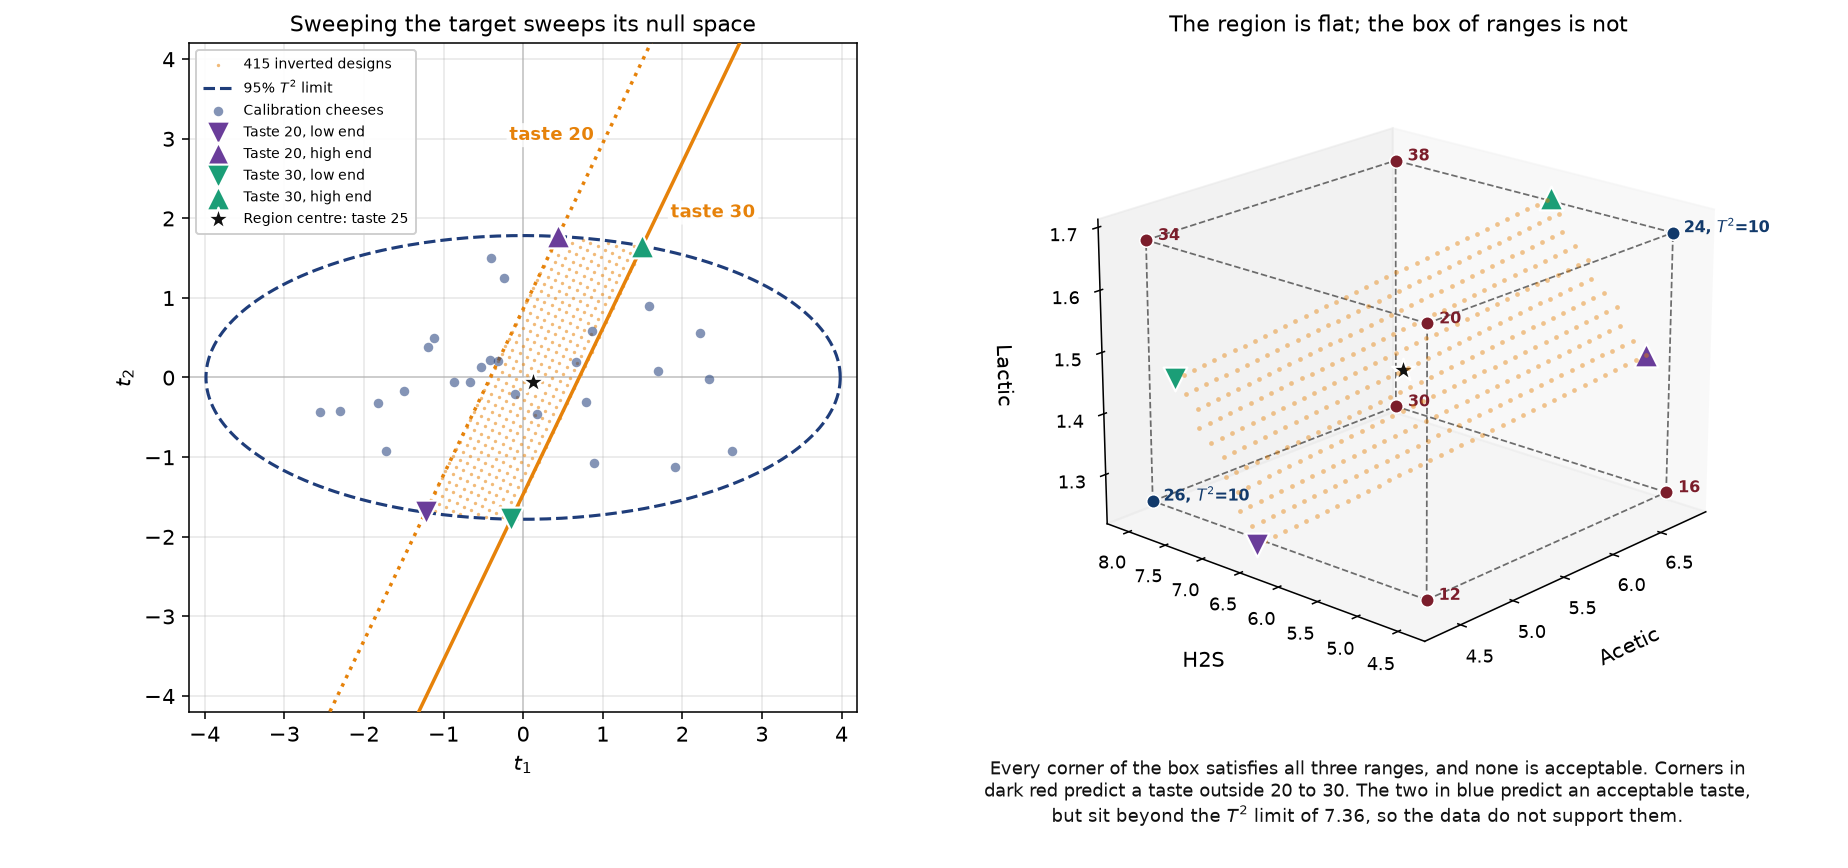
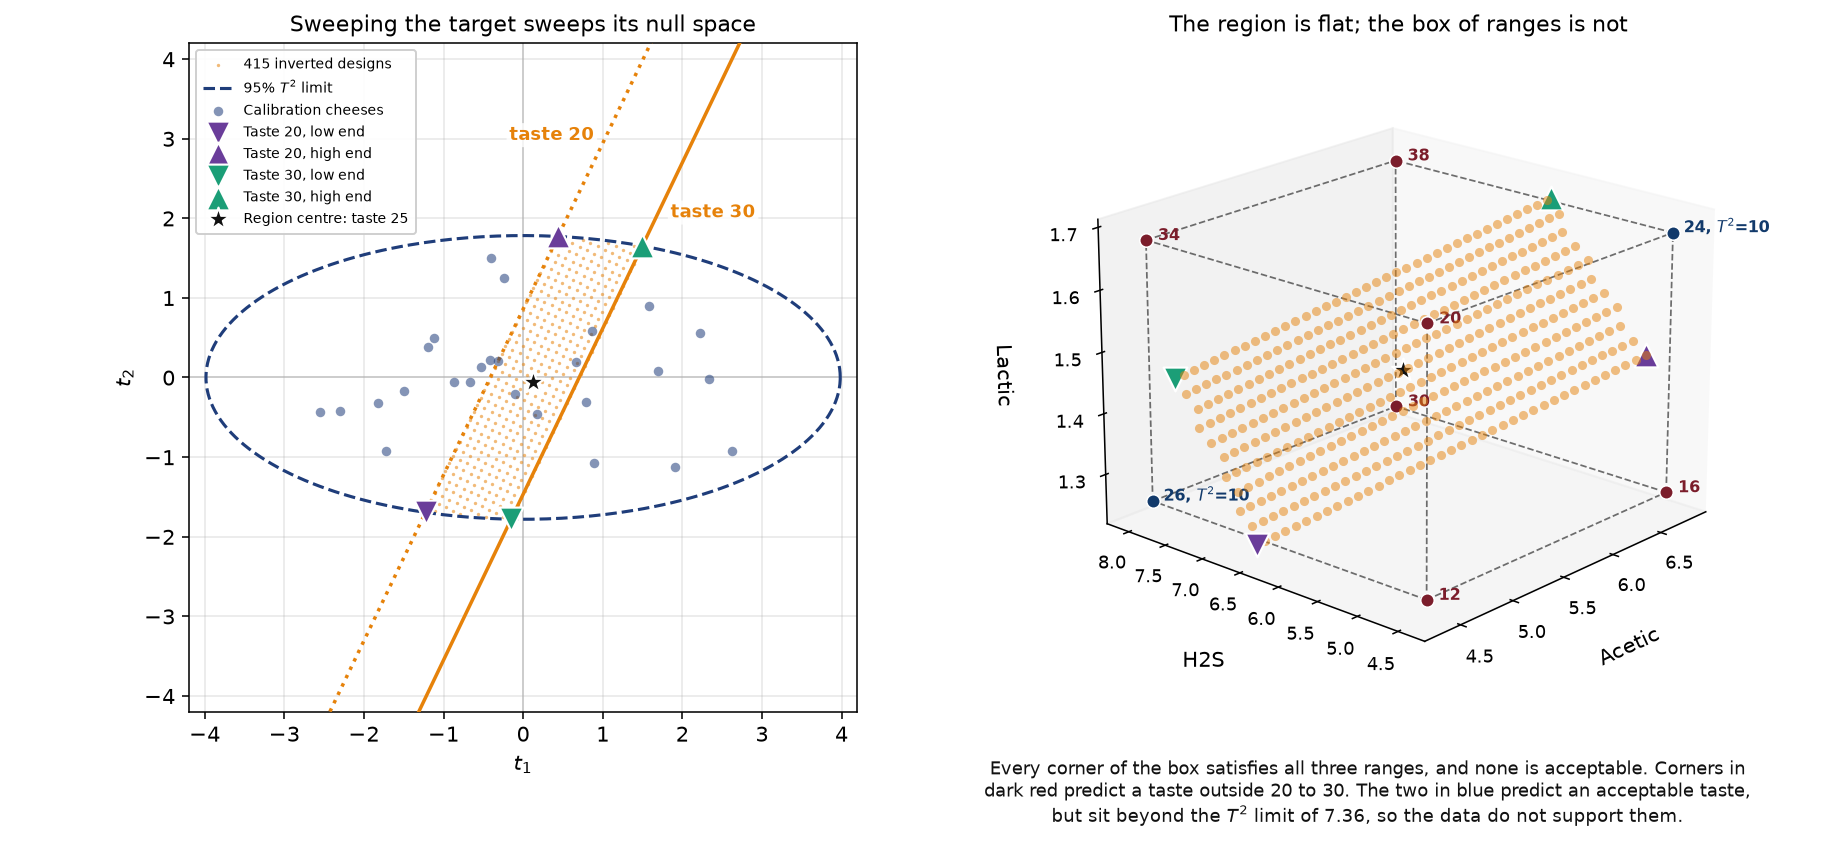
Enlarge the swept points so the region reads as a surface
At the previous marker size the 550 inverted designs read as a dusting
of specks in the three-dimensional panel, which undercuts the point the
panel makes: the region is a flat sheet sitting inside a solid box.

Changed region(s): [[0.6477, 0.2488, 0.8945, 0.6221]]

diff --git a/pls/pls-specification-region.py b/pls/pls-specification-region.py
@@ -192,8 +192,9 @@ def build_figure(out_dir: Path) -> None:
     ax_scores.legend(loc="upper left", fontsize=7.4, framealpha=0.94, borderpad=0.5)
 
     # --- right: the region against the box of three ranges --------------------
-    ax_inputs.scatter(region_inputs[:, 0], region_inputs[:, 1], region_inputs[:, 2], s=6,
-                      color=ORANGE, alpha=0.45, lw=0, depthshade=False)
+    # Large enough for the swept points to read as a surface rather than a dusting.
+    ax_inputs.scatter(region_inputs[:, 0], region_inputs[:, 1], region_inputs[:, 2], s=22,
+                      color=ORANGE, alpha=0.5, lw=0, depthshade=False)
     for start, end in (
         (0, 1), (0, 2), (0, 4), (1, 3), (1, 5), (2, 3),
         (2, 6), (3, 7), (4, 5), (4, 6), (5, 7), (6, 7),
